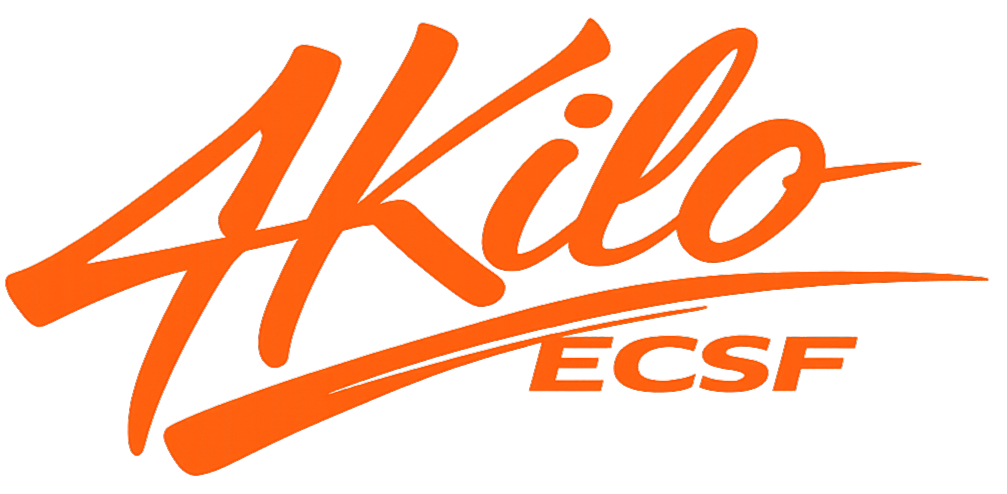
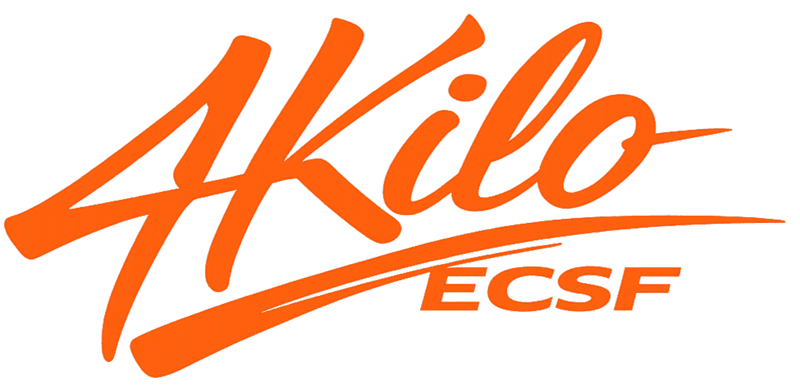
chore: optimize storage

Changed region(s): [[0.2188, 0.9184, 0.25, 0.949]]

diff --git a/apps/mobile/constants/leaders.ts b/apps/mobile/constants/leaders.ts
@@ -22,7 +22,7 @@ export const LEADERS: Leader[] = [
     phoneNumber: "0911000001",
     telegram: "@fellowship_leader",
     isVerified: true,
-    image: require("@/assets/images/leaders/leader1.png"),
+    image: require("@/assets/images/leaders/leader1.jpg"),
     type: "Main",
   },
   {
@@ -33,7 +33,7 @@ export const LEADERS: Leader[] = [
     phoneNumber: "0911000001",
     telegram: "@kefa",
     isVerified: true,
-    image: require("@/assets/images/leaders/leader2.png"),
+    image: require("@/assets/images/leaders/leader2.jpg"),
 
     type: "Main",
   },
@@ -45,7 +45,7 @@ export const LEADERS: Leader[] = [
     phoneNumber: "0911000001",
     telegram: "@dibora",
     isVerified: false,
-    image: require("@/assets/images/leaders/leader3.png"),
+    image: require("@/assets/images/leaders/leader3.jpg"),
 
     type: "Main",
   },
@@ -79,7 +79,7 @@ export const LEADERS: Leader[] = [
     phoneNumber: "0911000001",
     telegram: "@kidist",
     isVerified: true,
-    image: require("@/assets/images/leaders/leader6.png"),
+    image: require("@/assets/images/leaders/leader6.jpg"),
     type: "Main",
   },
   {
@@ -90,7 +90,7 @@ export const LEADERS: Leader[] = [
     phoneNumber: "0911000001",
     telegram: "@waqgari",
     isVerified: true,
-    image: require("@/assets/images/leaders/image.png"),
+    image: require("@/assets/images/leaders/image.jpg"),
     type: "Main",
   },
   {
@@ -101,7 +101,7 @@ export const LEADERS: Leader[] = [
     phoneNumber: TEAM_LEADERS[0].phoneNumber,
     telegram: TEAM_LEADERS[0].telegram,
     isVerified: true,
-    image: require("@/assets/images/leaders/leader3.png"),
+    image: require("@/assets/images/leaders/leader3.jpg"),
     type: "Team",
   },
   {
@@ -123,7 +123,7 @@ export const LEADERS: Leader[] = [
     phoneNumber: TEAM_LEADERS[2].phoneNumber,
     telegram: TEAM_LEADERS[2].telegram,
     isVerified: true,
-    image: require("@/assets/images/leaders/leader1.png"),
+    image: require("@/assets/images/leaders/leader1.jpg"),
     type: "Team",
   },
   {
@@ -134,7 +134,7 @@ export const LEADERS: Leader[] = [
     phoneNumber: TEAM_LEADERS[3].phoneNumber,
     telegram: TEAM_LEADERS[3].telegram,
     isVerified: true,
-    image: require("@/assets/images/leaders/leader2.png"),
+    image: require("@/assets/images/leaders/leader2.jpg"),
     type: "Team",
   },
   {
@@ -156,7 +156,7 @@ export const LEADERS: Leader[] = [
     phoneNumber: TEAM_LEADERS[5].phoneNumber,
     telegram: TEAM_LEADERS[5].telegram,
     isVerified: true,
-    image: require("@/assets/images/leaders/image.png"),
+    image: require("@/assets/images/leaders/image.jpg"),
     type: "Team",
   },
   {

diff --git a/apps/mobile/constants/programs.ts b/apps/mobile/constants/programs.ts
@@ -25,7 +25,7 @@ export const WEEKLY_PROGRAMS: Program[] = [
     category: "General Fellowship",
     location: "Hibret Amba",
     coordinates: { lat: 9.038952250154978, lng: 38.75831542801892 },
-    image: require("@/assets/images/programs/monday1.png"),
+    image: require("@/assets/images/programs/monday1.jpg"),
   },
   {
     id: "2",
@@ -37,7 +37,7 @@ export const WEEKLY_PROGRAMS: Program[] = [
     category: "Prayer",
     location: "Anglican Church",
     coordinates: { lat: 9.033291325771401, lng: 38.76877997143855 },
-    image: require("@/assets/images/programs/wed.png"),
+    image: require("@/assets/images/programs/wed.jpg"),
   },
 
   {
@@ -50,7 +50,7 @@ export const WEEKLY_PROGRAMS: Program[] = [
     category: "Fresh",
     location: "Anglican Church",
     coordinates: { lat: 9.033291325771401, lng: 38.76877997143855 },
-    image: require("@/assets/images/programs/fresh.png"),
+    image: require("@/assets/images/programs/fresh.jpg"),
   },
   {
     id: "4",
@@ -61,7 +61,7 @@ export const WEEKLY_PROGRAMS: Program[] = [
     category: "Ministry",
     location: "Hibret Amba",
     coordinates: { lat: 9.038952250154978, lng: 38.75831542801892 },
-    image: require("@/assets/images/programs/wer.png"),
+    image: require("@/assets/images/programs/wer.jpg"),
   },
   {
     id: "5",
@@ -83,7 +83,7 @@ export const WEEKLY_PROGRAMS: Program[] = [
     category: "Service",
     location: "6kilo church",
     coordinates: { lat: 9.040462923318069, lng: 38.759740033794586 },
-    image: require("@/assets/images/programs/image.png"),
+    image: require("@/assets/images/programs/image.jpg"),
   },
   {
     id: "7",
@@ -94,7 +94,7 @@ export const WEEKLY_PROGRAMS: Program[] = [
     category: "Outreach",
     location: "Hibret Amba",
     coordinates: { lat: 9.038952250154978, lng: 38.75831542801892 },
-    image: require("@/assets/images/programs/evan.png"),
+    image: require("@/assets/images/programs/evan.jpg"),
   },
   {
     id: "8",
@@ -117,6 +117,6 @@ export const WEEKLY_PROGRAMS: Program[] = [
     category: "Prayer",
     location: "Emmanuel church",
     coordinates: { lat: 9.03037740148045, lng: 38.77196975055801 },
-    image: require("@/assets/images/programs/image2.png"),
+    image: require("@/assets/images/programs/image2.jpg"),
   },
 ];

diff --git a/apps/mobile/constants/locations.ts b/apps/mobile/constants/locations.ts
@@ -18,7 +18,7 @@ export const LOCATIONS: Location[] = [
     id: "1",
     name: "Hibret Amba",
     address: "Arat Kilo, Addis Ababa",
-    image: require("@/assets/images/locations/hibret.png"),
+    image: require("@/assets/images/locations/hibret.jpg"),
     coordinates: {
       latitude: 9.034,
       longitude: 38.762,
@@ -30,7 +30,7 @@ export const LOCATIONS: Location[] = [
     id: "2",
     name: "Emmanuel Church",
     address: "Arat Kilo, Addis Ababa",
-    image: require("@/assets/images/locations/image.png"),
+    image: require("@/assets/images/locations/image.jpg"),
     coordinates: {
       latitude: 9.04,
       longitude: 38.765,
@@ -41,7 +41,7 @@ export const LOCATIONS: Location[] = [
     id: "3",
     name: "Anglican",
     address: "Arat Kilo, Addis Ababa",
-    image: require("@/assets/images/programs/fresh.png"),
+    image: require("@/assets/images/programs/fresh.jpg"),
     coordinates: {
       latitude: 9.03,
       longitude: 38.75,
